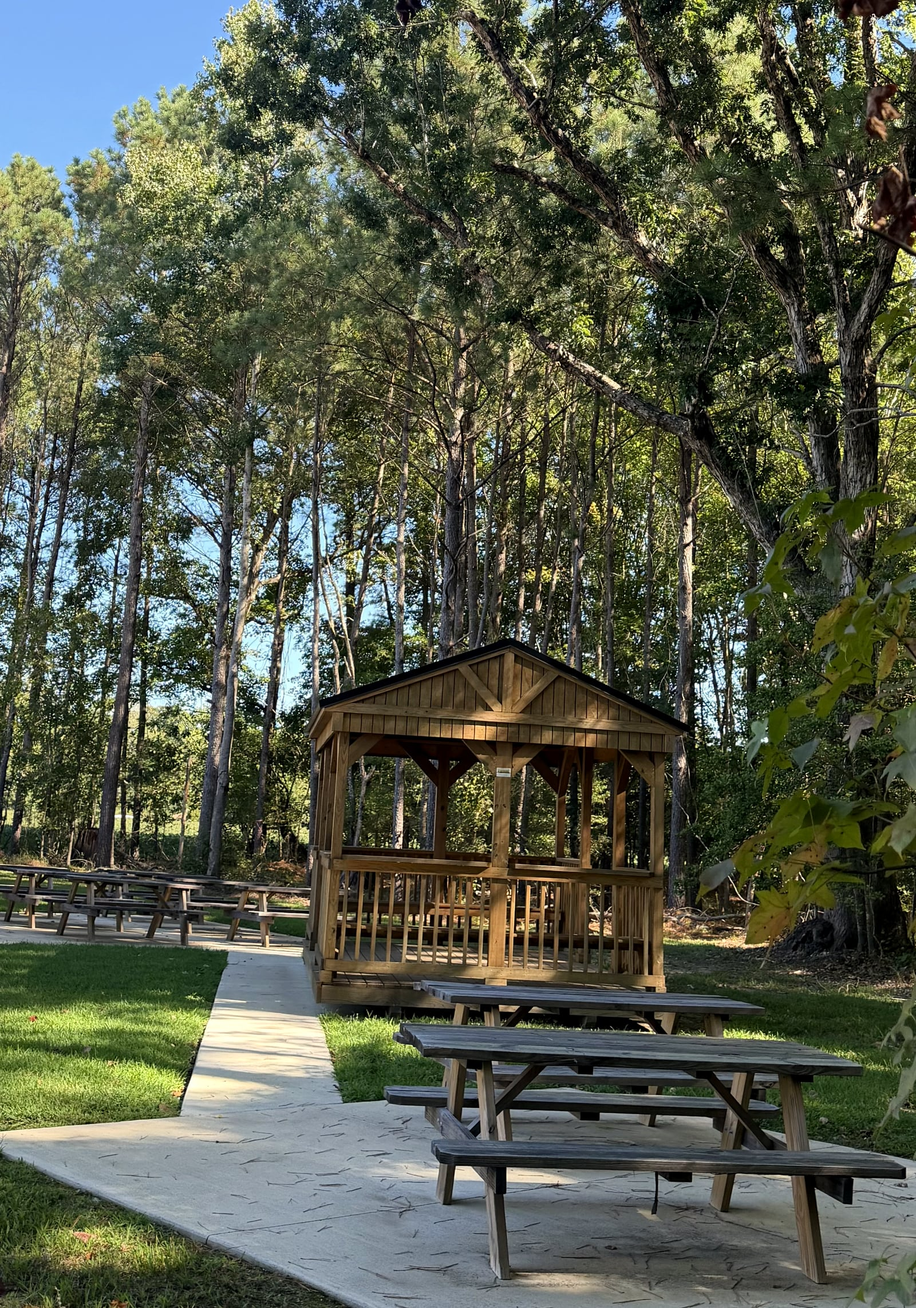
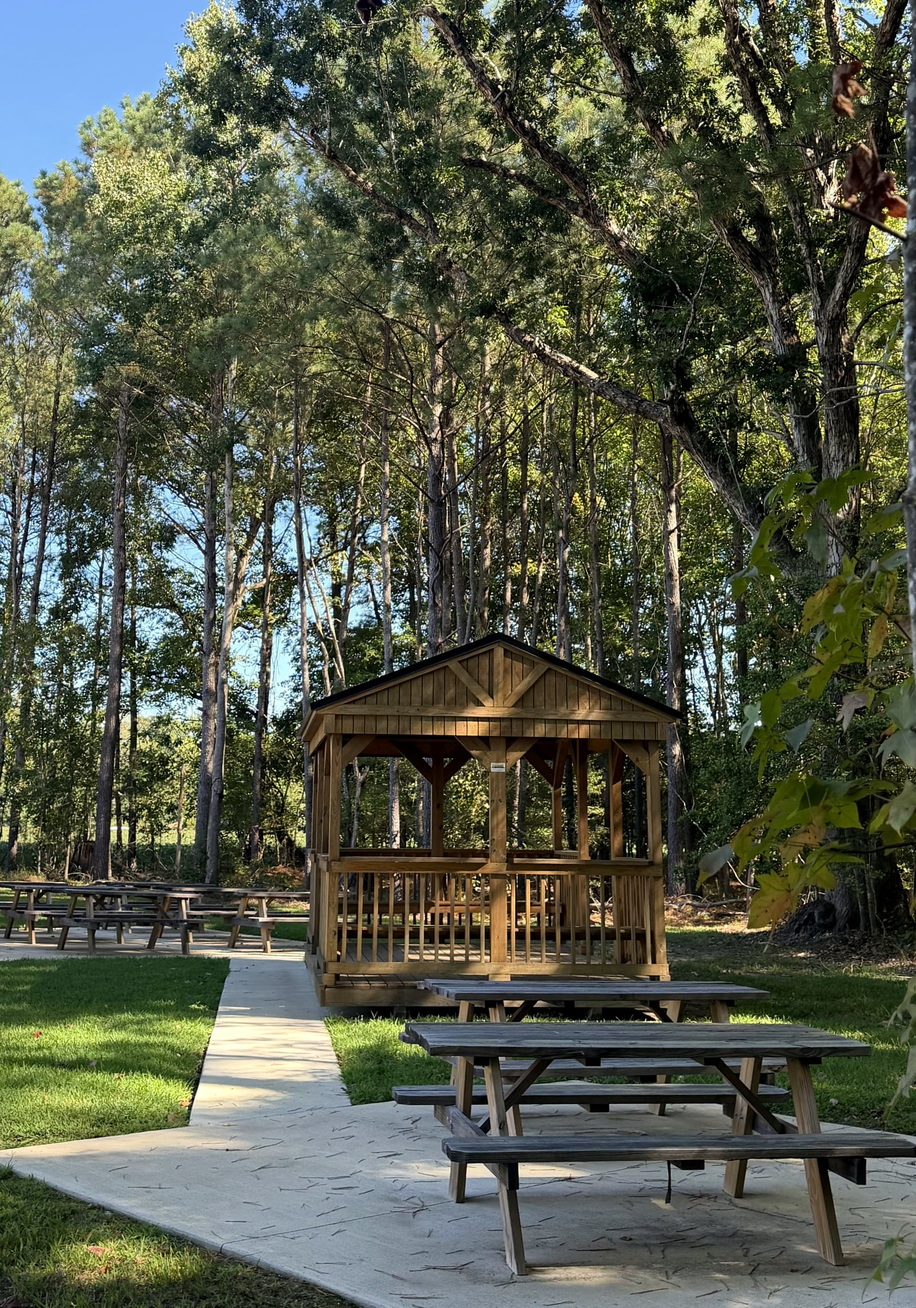
Level the grove hero: the original was rotated 2.5 degrees clockwise; both crops recut from the leveled original with the same framing

diff --git a/src/data/photos.ts b/src/data/photos.ts
@@ -11,8 +11,9 @@
  *
  * FILES IN src/assets/venue/ (every file there is published on the site)
  *   <name>.jpg                   3:2 landscape, 2400px wide. One entry in `photos`. The home hero,
- *                                grove-pines.jpg, is the exception: the original's full width (3661px, for
- *                                full-bleed screens) at its own ratio, which the hero's frames are fitted to.
+ *                                grove-pines.jpg, is the exception: nearly the original's full width (3500px after
+ *                                leveling the original by 2.5 degrees, for full-bleed screens) at its own ratio,
+ *                                which the hero's frames are fitted to.
  *   <name>-tall.jpg              4:5 portrait, 1600px wide (grove-pines-tall.jpg is 7:10). Attached to
  *                                <name>.jpg as `tall` for art direction on phones. Never listed on its own.
  *   styled-event-<slug>.jpg      The staged photo of one event (virtual staging: furniture, linens, florals,

diff --git a/src/assets/venue/README.md b/src/assets/venue/README.md
@@ -23,7 +23,7 @@ images somewhere else.
 |---|---|---|
 | `name.jpg` | 3:2 landscape, 2400px wide | One photo in `photos` (src/data/photos.ts). |
 | `name-tall.jpg` | 4:5 portrait, 1600px wide | Attached to `name.jpg` as `tall`. Shown instead of the landscape file on phones (below 46.5rem) wherever a page asks for the tall crop. Never listed on its own. |
-| `grove-pines.jpg`, `grove-pines-tall.jpg` | The home hero, the one exception: the landscape file is the original's full width (3661 x 2648) for full-bleed screens, and the portrait file is 7:10 | The hero's frames in src/pages/index.astro are fitted to these two framings (the roof, the gazebo, and the cut through the front table's legs). Re-measure them there if either file changes. |
+| `grove-pines.jpg`, `grove-pines-tall.jpg` | The home hero, the one exception: both are cut from the original after leveling it by 2.5 degrees (the camera was slightly rotated); the landscape file is nearly its full width (3500 x 2532) for full-bleed screens, and the portrait file is 7:10 | The hero's frames in src/pages/index.astro are fitted to these two framings (the roof, the gazebo, and the cut through the front table's legs). Re-measure them there if either file changes. |
 | `styled-event-<slug>.jpg` | The staged photo of one event: furniture, linens, florals, and lighting added; architecture, fixtures, and trees unchanged | Its `photoDetails` entry (already registered) names the real photo it was made from (`styledOf`) and the event (`event`). Shown only through `eventPhoto()`, with the badge, and on the event page with the caption "Styled concept. Décor is not included." |
 
 The eight staged files and the real photo each is made from:
